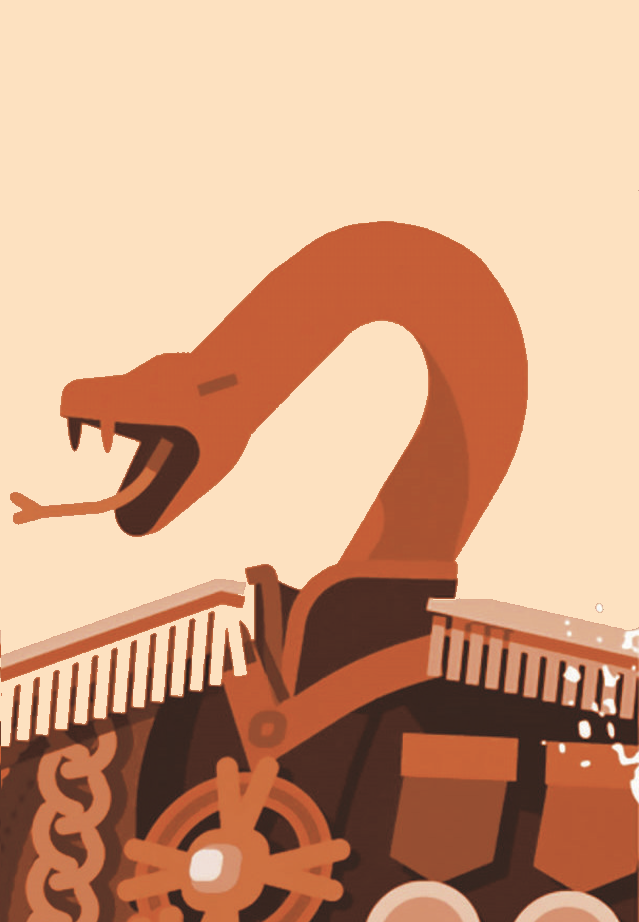
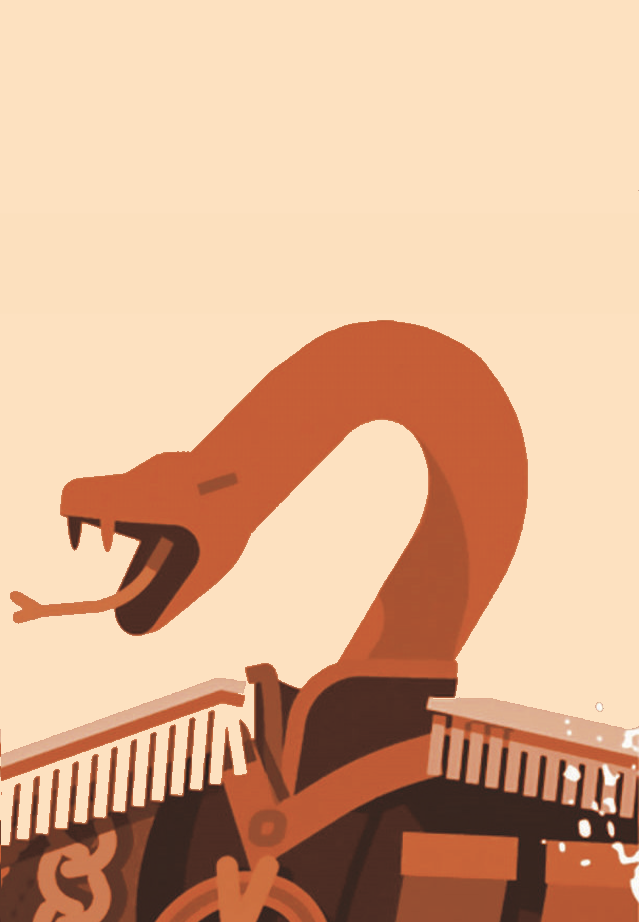
feat: atualiza imagens de cartas e adiciona novas cores ao tema

diff --git a/lib/modules/root/submodules/role/views/widgets/role_card.dart b/lib/modules/root/submodules/role/views/widgets/role_card.dart
@@ -6,6 +6,7 @@ import 'package:secret_hitler_companion/core/objects/enums/font_family_enum.dart
 import 'package:secret_hitler_companion/core/themes/app_colors.dart';
 import 'package:secret_hitler_companion/core/themes/app_text_styles.dart';
 import 'package:secret_hitler_companion/core/utils/extensions/context_extensions.dart';
+import 'package:secret_hitler_companion/core/utils/widgets/images/logo_widget.dart';
 import 'package:secret_hitler_companion/modules/root/submodules/role/views/widgets/utils/burned_edge_clipper.dart';
 
 class RoleCard extends StatelessWidget {
@@ -33,7 +34,8 @@ class RoleCard extends StatelessWidget {
           borderRadius: BorderRadius.circular(4),
           image: DecorationImage(
             image: AssetImage(voter.cardImage),
-            fit: BoxFit.cover,
+            fit: BoxFit.fitWidth,
+            alignment: Alignment(2, -0.3),
           ),
         ),
         width: constraints.maxWidth - 7,
@@ -45,37 +47,64 @@ class RoleCard extends StatelessWidget {
             children: [
               FittedBox(
                 child: Text(
-                  'SEU PAPEL SECRETO',
+                  context.loc.roleCardMessage.toUpperCase(),
                   style: AppTextStyles.labelSmall().copyWith(fontSize: 5),
                 ),
               ),
-              FittedBox(
-                child: Stack(
-                  children: [
-                    Text(
-                      _getRoleName(context, voter),
-                      style: AppTextStyles.bodyMedium(
-                        fontFamily: FontFamilyEnum.display,
-                        fontWeight: FontWeight.w900,
-                        color: _getRoleColor(voter),
-                      ),
+              if (voter is FascistVoterEntity &&
+                  (voter as FascistVoterEntity).isHitler)
+                SizedBox(
+                  width: 50,
+                  height: 40,
+                  child: LogoWidget(
+                    color: AppColors.propRed,
+                    showSubtitle: false,
+                    showSecretLabel: false,
+                  ),
+                )
+              else
+                FittedBox(
+                  child: Transform.rotate(
+                    angle: -0.15,
+                    child: Stack(
+                      children: [
+                        Text(
+                          _getRoleName(context, voter),
+                          style:
+                              AppTextStyles.bodyMedium(
+                                fontFamily: FontFamilyEnum.display,
+                                fontWeight: FontWeight.w900,
+                                color: _getRoleColor(voter),
+                              ).copyWith(
+                                shadows: [
+                                  Shadow(
+                                    offset: Offset(
+                                      1,
+                                      1,
+                                    ), // deslocamento da sombra
+                                    blurRadius: 3, // desfoque
+                                    color: AppColors.black, // cor da sombra
+                                  ),
+                                ],
+                              ),
+                        ),
+                        Text(
+                          _getRoleName(context, voter),
+                          style:
+                              AppTextStyles.bodyMedium(
+                                fontFamily: FontFamilyEnum.display,
+                                fontWeight: FontWeight.w900,
+                              ).copyWith(
+                                foreground: Paint()
+                                  ..style = PaintingStyle.stroke
+                                  ..strokeWidth = 1
+                                  ..color = _getRoleStrokeColor(voter),
+                              ),
+                        ),
+                      ],
                     ),
-                    Text(
-                      _getRoleName(context, voter),
-                      style:
-                          AppTextStyles.bodyMedium(
-                            fontFamily: FontFamilyEnum.display,
-                            fontWeight: FontWeight.w900,
-                          ).copyWith(
-                            foreground: Paint()
-                              ..style = PaintingStyle.stroke
-                              ..strokeWidth = 1
-                              ..color = _getRoleStrokeColor(voter),
-                          ),
-                    ),
-                  ],
+                  ),
                 ),
-              ),
             ],
           ),
         ),
@@ -85,17 +114,17 @@ class RoleCard extends StatelessWidget {
 
   Color _getRoleColor(VoterEntity voter) {
     if (voter is FascistVoterEntity) {
-      return AppColors.lightPropRed;
+      return AppColors.darkPropRed;
     } else {
-      return AppColors.blue;
+      return AppColors.darkCyan;
     }
   }
 
   Color _getRoleStrokeColor(VoterEntity voter) {
     if (voter is FascistVoterEntity) {
-      return AppColors.darkPropRed;
+      return AppColors.propRed;
     } else {
-      return AppColors.darkBlue;
+      return AppColors.lightCyan;
     }
   }
 

diff --git a/lib/core/utils/widgets/images/logo_widget.dart b/lib/core/utils/widgets/images/logo_widget.dart
@@ -4,7 +4,16 @@ import 'package:secret_hitler_companion/core/themes/app_text_styles.dart';
 
 class LogoWidget extends StatelessWidget {
   final double fontSize;
-  const LogoWidget({super.key, this.fontSize = 50});
+  final Color? color;
+  final bool showSubtitle;
+  final bool showSecretLabel;
+  const LogoWidget({
+    super.key,
+    this.fontSize = 50,
+    this.color,
+    this.showSubtitle = true,
+    this.showSecretLabel = true,
+  });
 
   @override
   Widget build(BuildContext context) {
@@ -15,17 +24,24 @@ class LogoWidget extends StatelessWidget {
         height: 400 * scale,
         child: Stack(
           children: [
-            _buildCustomText('SECRET', scale, fontSize),
-            Positioned(
-              top: 120 * scale,
-              left: 0,
-              child: _buildCustomText('HITLER', scale, fontSize),
+            _buildCustomText(
+              showSecretLabel ? 'SECRET' : 'HITLER',
+              scale,
+              fontSize,
+              color,
             ),
-            Positioned(
-              top: 260 * scale,
-              left: 14,
-              child: _buildCustomText('Companion', scale, 30),
-            ),
+            if (showSecretLabel)
+              Positioned(
+                top: 120 * scale,
+                left: 0,
+                child: _buildCustomText('HITLER', scale, fontSize, color),
+              ),
+            if (showSubtitle)
+              Positioned(
+                top: 260 * scale,
+                left: 14,
+                child: _buildCustomText('Companion', scale, 30),
+              ),
           ],
         ),
       ),

diff --git a/lib/modules/root/submodules/role/views/widgets/envelope_widget.dart b/lib/modules/root/submodules/role/views/widgets/envelope_widget.dart
@@ -206,13 +206,13 @@ class _EnvelopeWidgetState extends State<EnvelopeWidget>
                         0.0,
                       );
                     });
+                    if (_revealOffset < -constraints.maxHeight / 4) {
+                      widget.onShowCardComplete?.call();
+                    }
                   }
                 },
                 onVerticalDragEnd: (details) {
                   if (_isComplete) {
-                    if (_revealOffset < -constraints.maxHeight / 4) {
-                      widget.onShowCardComplete?.call();
-                    }
                     setState(() => _revealOffset = 0.0);
                   }
                 },

diff --git a/lib/core/themes/app_colors.dart b/lib/core/themes/app_colors.dart
@@ -13,4 +13,6 @@ class AppColors {
   static const Color lightPropRed = Color(0xffC9532B);
   static const Color blue = Color(0xFF4A90E2);
   static const Color darkBlue = Color(0xFF2C3E70);
+  static const Color lightCyan = Color(0xFF8DADA3);
+  static const Color darkCyan = Color(0xFF54625B);
 }

diff --git a/lib/core/utils/helpers/game_setup.dart b/lib/core/utils/helpers/game_setup.dart
@@ -51,7 +51,6 @@ class GameSetup {
       ImagePaths.fascist1Card,
       ImagePaths.fascist2Card,
       ImagePaths.fascist3Card,
-      ImagePaths.fascist4Card,
     ]..shuffle(Random());
 
     final liberalCards = [
